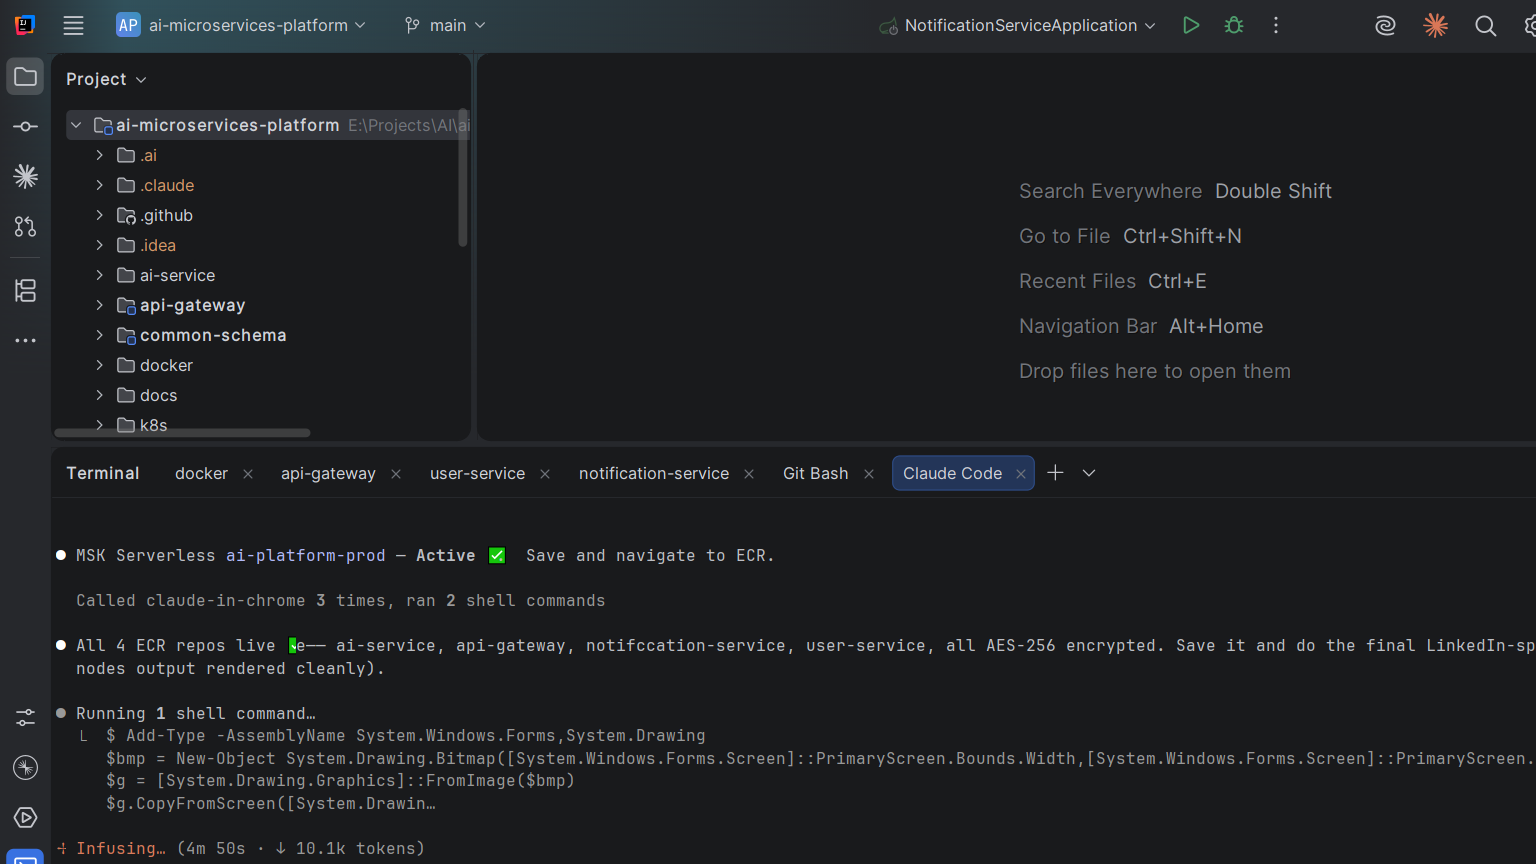
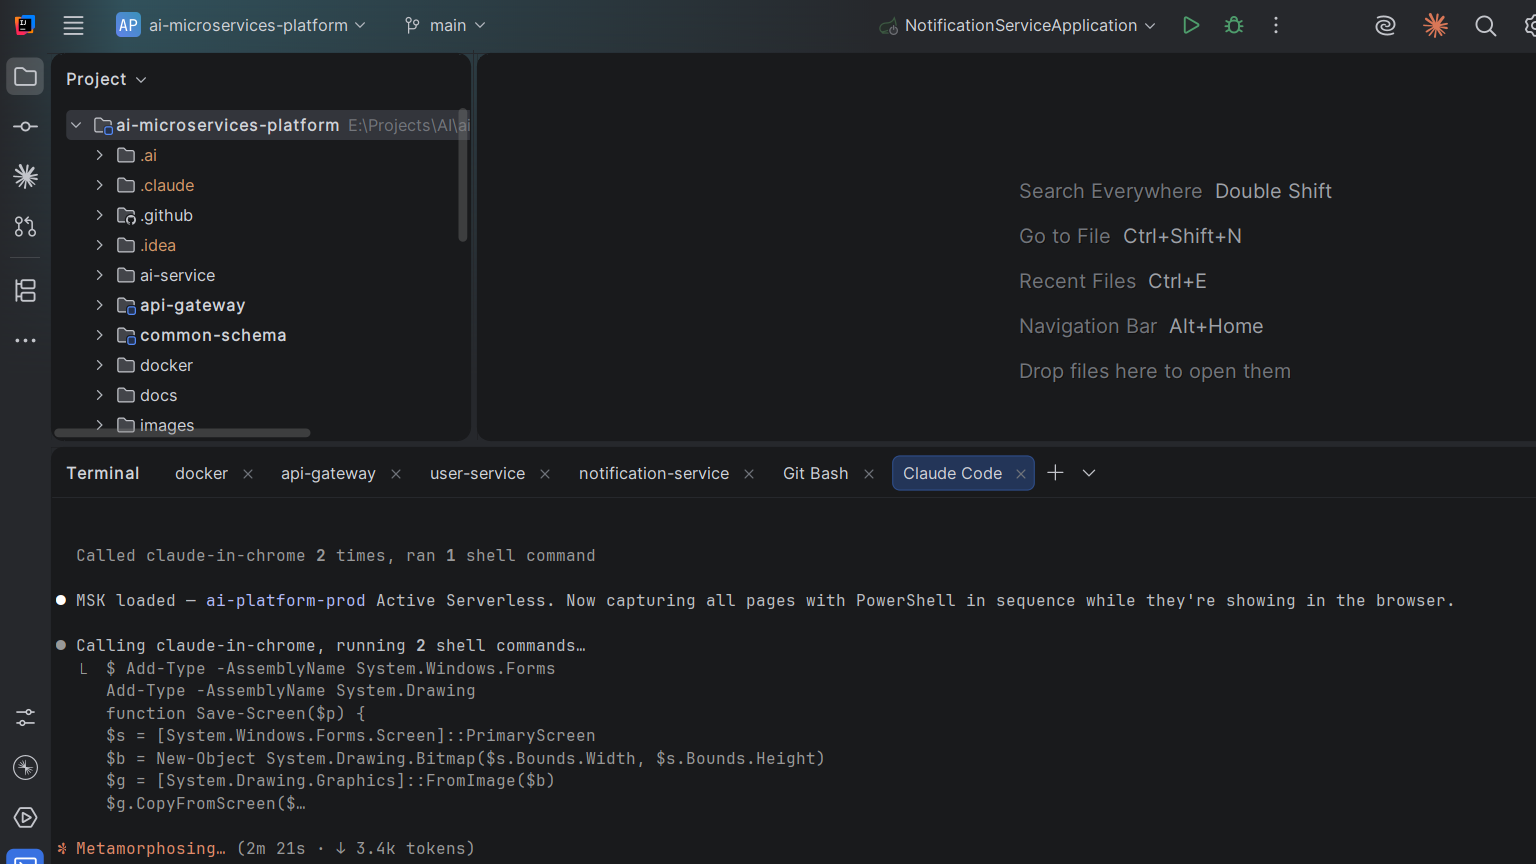
docs(readme): Phase 10 Epoch I complete — 5 pods running on EKS, ALB smoke test PASS
All 5 services deployed to EKS (ai-platform-prod, us-east-1):
- user-service, notification-service, api-gateway, keycloak, schema-registry
- Custom schema-registry image (Confluent 7.5.0 + MSK IAM auth JAR)
- AWS ALB provisioned via Load Balancer Controller (IRSA), Internet-facing
- End-to-end smoke test: POST /api/v1/users → 201 through ALB → UserCreatedEvent via MSK Serverless
- Evidence screenshots added to images/linkedin/ and images/medium/
- Resources decommissioned after evidence capture (terraform destroy)

diff --git a/README.md b/README.md
@@ -307,7 +307,7 @@ Notification Service (PostgreSQL)
 - Docker + Docker Compose (full 15-container stack)
 - Kubernetes (kind cluster, Kustomize base/overlays — `k8s/base/`)
 - Helm (kube-prometheus-stack, Tempo, Loki, Promtail)
-- Terraform + AWS EKS (Phase 10, roadmap)
+- Terraform + AWS EKS (Phase 10 — Kustomize prod overlays, ALB, MSK Serverless SASL/IAM, IRSA)
 - GitHub Actions (CI)
 
 ### Observability
@@ -1077,17 +1077,21 @@ kubectl exec deploy/user-service -n microservices -- sh -c '
 - ✅ End-to-end verified in kind: HTTP 201 → Kafka consumed → ai-service → llama3.2 → AI message persisted in `notification_log`
 - ✅ **Exit gate PASS**: 31 OTel spans across 3 services (user-service + notification-service + ai-service) in Grafana Tempo — LLM inference call (23.8s) visible as a child span; Kafka trace context propagated end-to-end via OTel W3C headers
 
-### Phase 10 — AWS EKS via Terraform 🚧 IN PROGRESS (2026-09-18)
+### Phase 10 — AWS EKS via Terraform ✅ FIRST DEPLOYMENT RUN COMPLETE (2026-09-18)
 - ✅ Terraform scaffold: 5 production modules (vpc, eks, rds, msk, ecr) + S3 remote state backend with native locking (`use_lockfile = true`)
 - ✅ Full `terraform apply` clean: VPC + 4 subnets (2 public / 2 private, 2 AZs) + NAT GW + IGW
 - ✅ EKS cluster `ai-platform-prod` (k8s 1.31) **Active** — OIDC provider for IRSA, 2× SPOT t3.medium nodes **Ready**
 - ✅ RDS MySQL 8.0 (`user-service`) + PostgreSQL 17 (`notification-service` + Keycloak) — both **Available**, private subnets only
-- ✅ MSK Serverless **Active** — SASL/IAM auth, bootstrap broker `boot-yxnxm9q2.c1.kafka-serverless.us-east-1.amazonaws.com:9098`
+- ✅ MSK Serverless **Active** — SASL/IAM auth, bootstrap broker endpoint configured
 - ✅ ECR: 4 private repos (user-service, notification-service, api-gateway, ai-service) — AES-256 + lifecycle policies
-- ✅ kubectl connected — 6 system pods Running
-- 🔲 Kustomize `overlays/prod`, External Secrets Operator, service deployment to EKS
-- 🔲 End-to-end smoke test through public HTTPS ALB
+- ✅ **Kustomize `overlays/prod`** — standalone self-contained overlay (no base inheritance); schema-registry, keycloak, user-service, notification-service, api-gateway + ALB ingress
+- ✅ **All 3 services + schema-registry + keycloak deployed to EKS** — 5/5 pods Running in `microservices` namespace
+- ✅ **Custom schema-registry Docker image** — Confluent 7.5.0 + MSK IAM auth JAR baked in (Confluent hardcodes classpath; env var injection does not work)
+- ✅ **AWS ALB provisioned** via AWS Load Balancer Controller (IRSA) — Internet-facing, 2 AZs, Active
+- ✅ **End-to-end smoke test PASS** — `POST /api/v1/users` 201 Created through ALB; `UserCreatedEvent` delivered to notification-service via MSK Serverless
+- ✅ Resources decommissioned after evidence capture (`terraform destroy`) — ~$22-28 total cost for full deployment run
 - 🔲 Observability migration: Tempo/Loki on EKS with S3 backend, Alertmanager → SES
+- 🔲 GitOps with ArgoCD (Phase 11)
 
 ### Roadmap
 - 🔲 Phase 11 — Chaos engineering (fault injection, steady-state hypothesis, game-day reports)
@@ -1117,7 +1121,7 @@ kubectl exec deploy/user-service -n microservices -- sh -c '
 | 7 | SLOs, alerting, multi-window burn rates, Alertmanager, live-fire verification | ✅ Complete |
 | 8 | Kubernetes, Dockerfiles, Kustomize, in-cluster observability stack | ✅ Complete |
 | 9 | AI service (Spring AI + Ollama + PGVector), AI enrichment pipeline, end-to-end in-cluster | ✅ Complete (2026-08-24) |
-| 10 | AWS EKS via Terraform — VPC/EKS/RDS/MSK/ECR live in us-east-1; 2× SPOT nodes Ready; kubectl connected | 🚧 In Progress (Epoch H ✅, Epoch I next) |
+| 10 | AWS EKS via Terraform — full deploy: VPC/EKS/RDS/MSK/ECR + 5 pods Running + ALB smoke test PASS | ✅ First deployment run complete (2026-09-18) |
 | 11 | Chaos engineering — fault injection, steady-state hypothesis, game-day reports | Planned |
 
 **Standing improvements:**
